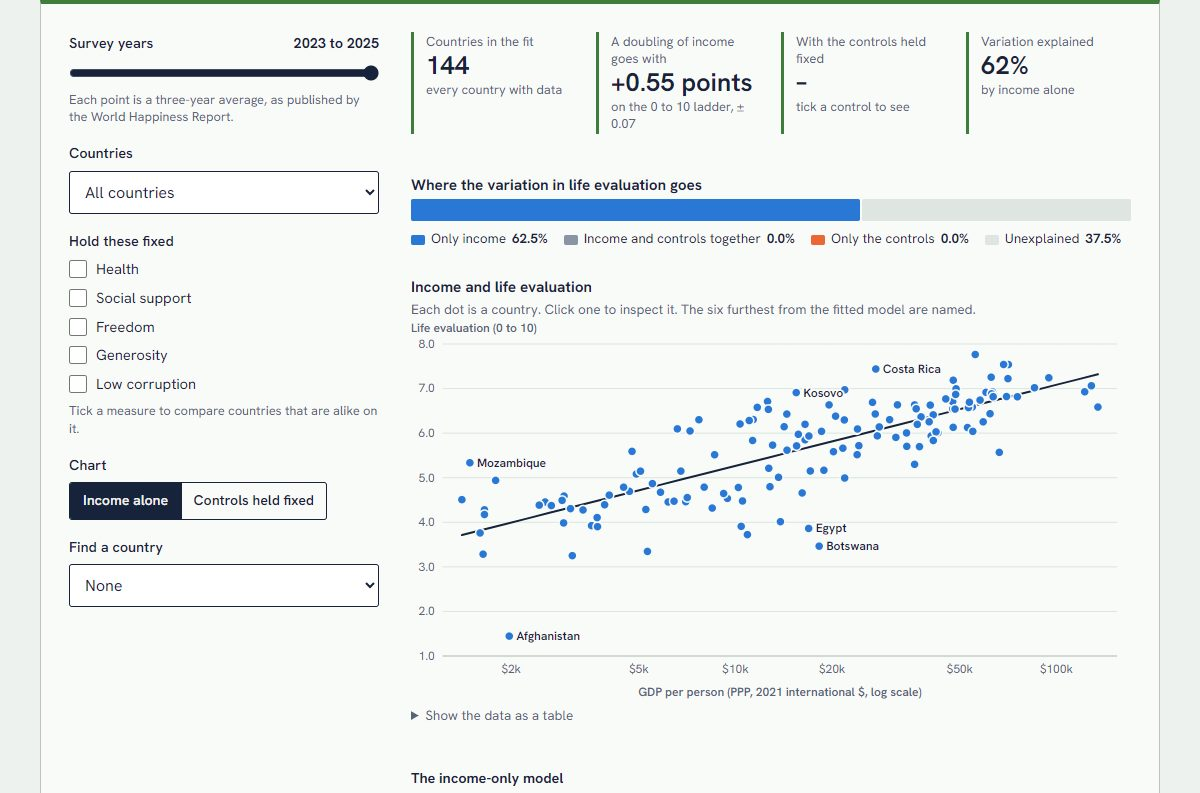
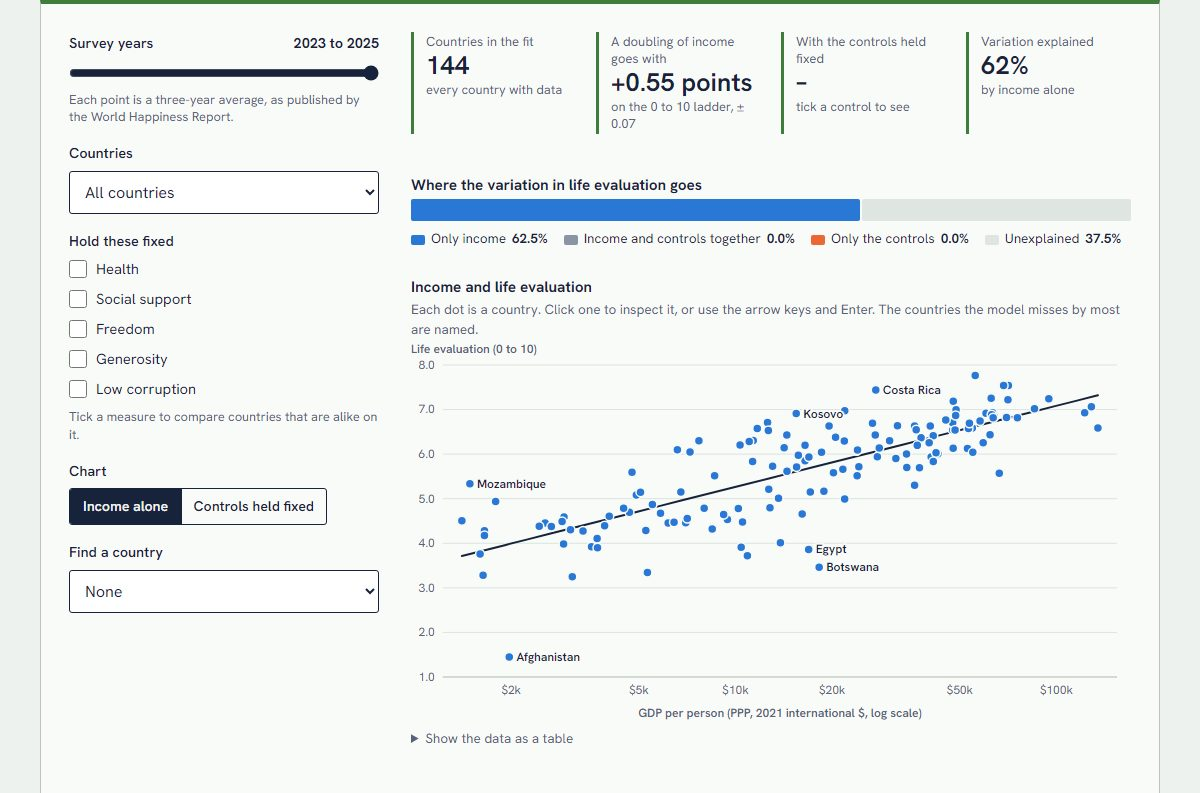
Review project 1: start at 2010-12, pin the finding, keyboard and focus fixes

diff --git a/365projects/1/index.html b/365projects/1/index.html
@@ -13,6 +13,7 @@
   <style>
     .split-bar { display: flex; gap: 2px; height: 22px; margin: 2px 0 8px; }
     .split-bar span { display: block; min-width: 2px; border-radius: 2px; }
+    .model-table td:last-child { min-width: 13em; }
   </style>
 </head>
 <body class="proj" data-day="1">
@@ -28,30 +29,31 @@
 
     <section class="p-sec finding">
       <h2>One finding</h2>
-      <p>Across 142 countries in 2023 to 2025, income alone accounts for 63% of the differences in average life evaluation, and each doubling of income goes with 0.55 more points on the 0 to 10 ladder. Hold health, social support, freedom, generosity and corruption fixed and the same doubling goes with 0.16 points. Less than one percentage point of the variation can be pinned on income and nothing else.</p>
+      <p>Tick all five controls and the tool compares the 142 countries that have every measure for 2023 to 2025. Across them, income alone accounts for 63% of the differences in average life evaluation, and each doubling of income goes with 0.55 more points on the 0 to 10 ladder. Hold health, social support, freedom, generosity and corruption fixed and the same doubling goes with 0.16 points. Less than one percentage point of the variation can be pinned on income and nothing else.</p>
     </section>
 
     <section class="p-sec">
       <h2>The idea</h2>
-      <p>Ask people in 140 countries to rate their lives from 0 to 10 and the national averages line up with national income almost embarrassingly well. Angus Deaton showed in 2008 that the line is straight when income is on a log scale: going from $2,000 to $4,000 a head goes with about the same gain as going from $20,000 to $40,000. Money matters, and each extra dollar matters less.</p>
-      <p>But rich countries are not only rich. They are also healthier, freer, less corrupt and better at looking after people who fall. So "income explains 63% of life satisfaction" could mean that money buys happiness, or that money travels with the things that do. This is the oldest problem in empirical social science, <strong>omitted variable bias</strong>, and it sits underneath a live argument in welfare economics: whether governments that want happier citizens should chase growth, or chase the things growth is correlated with.</p>
+      <p>Ask people in nearly 150 countries to rate their lives from 0 to 10 and the national averages line up with national income almost embarrassingly well. Richard Easterlin doubted in 1974 that richer societies were happier ones. Using the 2006 Gallup World Poll, Angus Deaton showed in 2008 that they are, across the whole range of incomes, once income is put on a log scale: each doubling goes with about the same gain, so going from $2,000 to $4,000 a head counts for as much as going from $20,000 to $40,000. Stevenson and Wolfers found the same in several other surveys, with no income above which the gains stop. Money matters, and each extra dollar matters less.</p>
+      <p>But rich countries are not only rich. They are also healthier, freer, less corrupt and better at looking after people who fall. So "income explains 63% of life satisfaction" could mean that money buys happiness, or that money travels with the things that do. This is one of the oldest problems in empirical social science, <strong>omitted variable bias</strong>, and it sits underneath a live argument in welfare economics: whether governments that want happier citizens should chase growth, or chase the things growth is correlated with.</p>
       <p>The tool lets you run that argument yourself. Tick a control and you are no longer comparing rich countries with poor ones. You are comparing countries that are alike on that measure and differ in income.</p>
     </section>
 
     <section class="p-sec">
       <h2>How it works</h2>
       <h3>The data</h3>
-      <p>Life evaluation is the Cantril ladder from the Gallup World Poll, as published in the World Happiness Report 2026: "imagine a ladder with steps from 0 to 10, where 10 is the best possible life for you; which step are you on?" Each value is a national average over three survey years. Income is the World Bank's GDP per person at purchasing power parity in constant 2021 international dollars, averaged over the same three years.</p>
+      <p>Life evaluation is the Cantril ladder from the Gallup World Poll, as published in the World Happiness Report 2026. People are asked to picture a ladder with steps numbered from 0 at the bottom to 10 at the top, where the top is the best possible life for them and the bottom the worst, and to say which step they stand on now. Each value is a national average over three survey years. Income is the World Bank's GDP per person at purchasing power parity in constant 2021 international dollars, averaged over whichever of the same three years the World Bank has published (for the latest period that is sometimes two of the three).</p>
+      <p>The slider runs from the 2010 to 2012 average to the 2023 to 2025 average. There is no 2011 to 2013 point because no report was published in 2014, and the 2012 report is left out because it pooled surveys from 2005 to 2011.</p>
       <h3>The model</h3>
       <p>For each country <var>i</var> the tool fits, by ordinary least squares,</p>
       <p class="eq"><var>ladder</var><sub><var>i</var></sub> = <var>a</var> + <var>b</var> · log<sub>2</sub>(<var>income</var><sub><var>i</var></sub>) + <var>c</var><sub>1</sub> · <var>control</var><sub>1<var>i</var></sub> + … + <var>e</var><sub><var>i</var></sub></p>
       <p>Because income enters as a base-2 logarithm, <var>b</var> reads directly as "ladder points per doubling of income". With no controls ticked, <var>b</var> is the slope of the line in the chart. With controls ticked, the tool fits both models on the same set of countries so the two slopes are comparable.</p>
       <h3>The controls</h3>
-      <p>Health is life expectancy at birth from the World Bank. The other four come from the report itself, which publishes each factor as a contribution to a country's score. A contribution is the survey average shifted and multiplied by a constant, so it carries the same information as the underlying average, but not in natural units. The table therefore reports every effect per standard deviation: the gap between a typical country and one that is noticeably higher.</p>
+      <p>Health is life expectancy at birth from the World Bank, averaged in the same way as income. The other four come from the report itself, which publishes each factor as a contribution to a country's score. A contribution is the survey average shifted and multiplied by a constant, so it carries the same information as the underlying average, but not in natural units. The table therefore reports every effect per standard deviation: the gap between a typical country and one that is noticeably higher.</p>
       <h3>Splitting the variation</h3>
       <p>The bar under the headline numbers comes from three regressions: income alone (<var>R</var>²<sub>I</sub>), the controls alone (<var>R</var>²<sub>C</sub>), and both together (<var>R</var>²<sub>F</sub>).</p>
       <p class="eq">only income = <var>R</var>²<sub>F</sub> − <var>R</var>²<sub>C</sub> &nbsp;&nbsp; shared = <var>R</var>²<sub>I</sub> + <var>R</var>²<sub>C</sub> − <var>R</var>²<sub>F</sub> &nbsp;&nbsp; only controls = <var>R</var>²<sub>F</sub> − <var>R</var>²<sub>I</sub></p>
-      <p>The shared part is the variation that income and the controls could each explain equally well. The data cannot say which of them deserves it, and that is usually most of the bar.</p>
+      <p>The shared part is the variation that income and the controls could each explain equally well. The data cannot say which of them deserves it, and that is usually most of the bar. Now and then the shared part comes out below zero: income and the controls explain more together than the two explain separately, because each was hiding part of the other's link with life evaluation. Generosity is the usual cause, since the report measures it after removing what income predicts. The tool says so when it happens.</p>
       <h3>The second chart</h3>
       <p>"Controls held fixed" is an added-variable plot. The tool regresses life evaluation on the controls and keeps what is left over, does the same for income, and plots one leftover against the other. By the Frisch-Waugh-Lovell theorem the slope of that cloud is exactly the coefficient <var>b</var> from the full model, so you can see how much of the tidy raw line survives.</p>
       <h3>Uncertainty</h3>
@@ -87,8 +89,8 @@
         <li>Helliwell, J. F., Layard, R., Sachs, J. D., De Neve, J.-E., Aknin, L. B., and Wang, S. (eds.) (2026). <em>World Happiness Report 2026</em>. University of Oxford: Wellbeing Research Centre. Data for Figure 2.1.</li>
         <li>World Bank, World Development Indicators: GDP per capita, PPP, constant 2021 international $ (NY.GDP.PCAP.PP.KD) and life expectancy at birth (SP.DYN.LE00.IN). CC BY 4.0. Retrieved 10 October 2026.</li>
         <li>Deaton, A. (2008). Income, health, and well-being around the world: evidence from the Gallup World Poll. <em>Journal of Economic Perspectives</em>, 22(2), 53-72.</li>
-        <li>Easterlin, R. A. (1974). Does economic growth improve the human lot? In <em>Nations and Households in Economic Growth</em>. Academic Press.</li>
-        <li>Stevenson, B., and Wolfers, J. (2008). Economic growth and subjective well-being: reassessing the Easterlin paradox. <em>Brookings Papers on Economic Activity</em>.</li>
+        <li>Easterlin, R. A. (1974). Does economic growth improve the human lot? Some empirical evidence. In P. A. David and M. W. Reder (eds.), <em>Nations and Households in Economic Growth</em>, 89-125. Academic Press.</li>
+        <li>Stevenson, B., and Wolfers, J. (2008). Economic growth and subjective well-being: reassessing the Easterlin paradox. <em>Brookings Papers on Economic Activity</em>, 2008(1), 1-87.</li>
         <li>Kahneman, D., and Deaton, A. (2010). High income improves evaluation of life but not emotional well-being. <em>PNAS</em>, 107(38), 16489-16493.</li>
       </ul>
     </section>

diff --git a/365projects/1/app.js b/365projects/1/app.js
@@ -5,8 +5,13 @@ import { CONTROLS, rowsFor, availableControls, fit, outliers } from "./logic.js"
 
 mount();
 
+// The report's first year, 2011, pooled surveys from 2005 to 2011. It is not a three-year average like the rest,
+// so the data module (scripts/data/wellbeing.py) leaves it out and the years start at 2012.
 const years = WELLBEING.years;
-const regions = [...new Set(WELLBEING.countries.map((c) => c.region))].sort();
+// A region is offered only if it has enough countries to fit a line in some year (North America has two).
+const MIN_COUNTRIES = 8;
+const regions = [...new Set(WELLBEING.countries.map((c) => c.region))].sort()
+  .filter((r) => years.some((y) => rowsFor(WELLBEING, y).filter((row) => row.region === r).length >= MIN_COUNTRIES));
 const shortRegion = (r) => r.replace("Middle East, North Africa, Afghanistan & Pakistan", "Middle East, N. Africa, Afghanistan & Pakistan");
 const money = (v) => (v >= 1000 ? `$${fmt.sig(v / 1000, 3)}k` : `$${fmt.int(v)}`);
 
@@ -36,7 +41,7 @@ const excludedBox = el("div", { class: "field" });
 
 const controls = el("div", { class: "controls" },
   yearSlider.el, regionSelect.el,
-  el("div", { class: "field" }, el("div", { class: "lab" }, el("span", { text: "Hold these fixed" })), boxes.map((b) => b.box.el), controlHint),
+  el("div", { class: "field", role: "group", "aria-label": "Hold these fixed" }, el("div", { class: "lab" }, el("span", { text: "Hold these fixed" })), boxes.map((b) => b.box.el), controlHint),
   viewSeg.el, pick.el, excludedBox);
 
 /* ---------- outputs ---------- */
@@ -45,15 +50,20 @@ const sAlone = stat("A doubling of income goes with");
 const sWith = stat("With the controls held fixed");
 const sR2 = stat("Variation explained");
 const message = el("div");
+// The headline numbers in one sentence, for screen readers: the stat tiles change silently.
+const status = el("p", { class: "sr-only", role: "status" });
 const splitBox = el("div", { class: "split" });
 const chartBox = el("div");
 const card = el("div");
-const tableBox = el("div");
-const out = el("div", { class: "out" }, el("div", { class: "stats" }, sN.el, sAlone.el, sWith.el, sR2.el), message, splitBox, chartBox, card, tableBox);
+const tableBox = el("div", { class: "model-table" });
+const out = el("div", { class: "out" }, el("div", { class: "stats" }, sN.el, sAlone.el, sWith.el, sR2.el), status, message, splitBox, chartBox, card, tableBox);
 
 $("#app").append(el("div", { class: "tool-grid" }, controls, out));
 
 const plot = chart(chartBox, { series: [], height: 380 });
+const toggleCountry = (name) => { state.selected = state.selected === name ? "" : name; update(); };
+// From the keyboard: arrow keys to a dot, then Enter or Space, which the kit's chart passes to onClick like a click.
+let names = [];
 
 /* ---------- rendering ---------- */
 function drawSplit(split) {
@@ -64,11 +74,16 @@ function drawSplit(split) {
     { key: "unexplained", label: "Unexplained", color: "#dfe5e1" },
   ].map((p) => ({ ...p, value: Math.max(0, split[p.key]) }));
   const total = stats.sum(parts.map((p) => p.value)) || 1;
+  // The shared part can be negative: the bar cannot draw that, so say so.
+  const negative = split.shared < -0.0005
+    ? [el("p", { class: "small muted", text: "The shared part is below zero here: income and these controls explain more together than the two explain separately, because each hides part of the other's link with life evaluation. The bar leaves the shared part out, so the two \"only\" parts add up to slightly more than the model explains." })]
+    : [];
   splitBox.replaceChildren(
     el("p", { class: "chart-title", text: "Where the variation in life evaluation goes" }),
-    el("div", { class: "split-bar", role: "img", "aria-label": parts.map((p) => `${p.label}: ${fmt.pct(p.value, 1)}`).join(", ") },
-      parts.filter((p) => p.value > 0).map((p) => el("span", { style: { width: `${(p.value / total) * 100}%`, background: p.color }, title: `${p.label}: ${fmt.pct(p.value, 1)}` }))),
-    el("div", { class: "chart-legend" }, parts.map((p) => el("span", {}, el("i", { style: { background: p.color } }), `${p.label} `, el("strong", { text: fmt.pct(split[p.key], 1) })))));
+    el("div", { class: "split-bar", role: "img", "aria-label": parts.map((p) => `${p.label}: ${fmt.pct(split[p.key], 1)}`).join(", ") },
+      parts.filter((p) => p.value > 0).map((p) => el("span", { style: { width: `${(p.value / total) * 100}%`, background: p.color }, title: `${p.label}: ${fmt.pct(split[p.key], 1)}` }))),
+    el("div", { class: "chart-legend" }, parts.map((p) => el("span", {}, el("i", { style: { background: p.color } }), `${p.label} `, el("strong", { text: fmt.pct(split[p.key], 1) })))),
+    ...negative);
 }
 
 function update() {
@@ -90,7 +105,7 @@ function update() {
     : "Tick a measure to compare countries that are alike on it.";
 
   // Country picker follows the current sample.
-  const names = inRegion.map((r) => r.name).sort((a, b) => a.localeCompare(b));
+  names = rows.map((r) => r.name).sort((a, b) => a.localeCompare(b));
   if (state.selected && !names.includes(state.selected)) state.selected = "";
   pick.input.replaceChildren(el("option", { value: "", text: "None" }), ...names.map((n) => el("option", { value: n, text: n })));
   pick.value = state.selected;
@@ -98,14 +113,15 @@ function update() {
   excludedBox.replaceChildren(...(state.excluded.size
     ? [el("div", { class: "lab" }, el("span", { text: `Left out of the fit (${state.excluded.size})` })),
        el("div", { class: "hint", text: [...state.excluded].sort().join(", ") }),
-       button("Put them back", () => { state.excluded.clear(); update(); }, { small: true })]
+       button("Put them back", () => { state.excluded.clear(); update(); pick.input.focus(); }, { small: true })]
     : []));
 
   const keys = [...state.controls];
   const f = fit(rows, keys);
   if (f.error) {
     message.replaceChildren(note("warn", f.error));
-    sN.set(fmt.int(f.n), "");
+    status.textContent = f.error;
+    sN.set(fmt.int(f.n), "too few to fit");
     for (const s of [sAlone, sWith, sR2]) s.set("–", "");
     splitBox.replaceChildren();
     tableBox.replaceChildren();
@@ -126,6 +142,9 @@ function update() {
     sWith.set("–", "tick a control to see");
     sR2.set(fmt.pct(f.alone.r2, 0), "by income alone");
   }
+  status.textContent = `${fmt.int(f.n)} countries in the fit. A doubling of income goes with ${fmt.signed(f.alone.perDoubling, 2)} points on the ladder`
+    + (keys.length ? `, and with ${fmt.signed(f.withControls.perDoubling, 2)} points once the ticked controls are held fixed. The model explains ${fmt.pct(f.withControls.r2, 0)} of the variation; income alone explains ${fmt.pct(f.alone.r2, 0)}.`
+      : `. Income alone explains ${fmt.pct(f.alone.r2, 0)} of the variation.`);
   drawSplit(f.split);
 
   const residualOf = new Map(f.residuals.map((r) => [r.name, r]));
@@ -158,7 +177,7 @@ function update() {
     title: partial ? "Income and life evaluation, after removing what the controls explain" : "Income and life evaluation",
     subtitle: partial
       ? (keys.length ? "Each axis shows how far a country is from what its controls predict. The slope is income's own contribution." : "No controls are ticked, so this is the raw relationship centred on the average country.")
-      : "Each dot is a country. Click one to inspect it. The six furthest from the fitted model are named.",
+      : "Each dot is a country. Click one to inspect it, or use the arrow keys and Enter. The countries the model misses by most are named.",
     label: "Scatter plot of life evaluation against income per person",
     hover: "point",
     x: partial
@@ -173,7 +192,8 @@ function update() {
     ],
     legend: false,
     marks,
-    onClick: ({ point }) => { if (point) { state.selected = state.selected === point.label ? "" : point.label; update(); } },
+    // Points on the fitted line can be the nearest thing to a click too; they have no label.
+    onClick: ({ point }) => { if (point?.label) toggleCountry(point.label); },
   });
 
   // Selected country.
@@ -184,7 +204,7 @@ function update() {
     card.replaceChildren(el("div", { class: "panel" },
       el("div", { class: "row", style: { justifyContent: "space-between" } },
         el("h3", { text: `${sel.name}, ${state.year - 2} to ${state.year}` }),
-        button("Leave out of the fit", () => { state.excluded.add(sel.name); state.selected = ""; update(); }, { small: true })),
+        button("Leave out of the fit", () => { state.excluded.add(sel.name); state.selected = ""; update(); $("button", excludedBox)?.focus(); }, { small: true })),
       el("p", { class: "small", style: { marginTop: "8px" } },
         `Life evaluation ${fmt.num(sel.ladder, 2)}, income ${money(sel.gdp)} per person. The ${keys.length ? "model with controls" : "income-only line"} predicts ${fmt.num(res.predicted, 2)}, so ${sel.name} sits ${fmt.num(Math.abs(res.residual), 2)} points ${res.residual >= 0 ? "above" : "below"} it: number ${rank} of ${f.n} when countries are ordered from most above to most below.`)));
   } else if (state.selected) {

diff --git a/365projects/1/logic.js b/365projects/1/logic.js
@@ -39,7 +39,16 @@ export function fit(rows, controlKeys = []) {
   const keys = CONTROLS.map((k) => k.key).filter((k) => controlKeys.includes(k));
   const sample = rows.filter((r) => keys.every((k) => r[k] != null));
   const n = sample.length;
-  if (n < keys.length + 8) return { error: `Only ${n} countries have all of these measures. Choose fewer controls, another year or a wider region.`, n };
+  if (n < keys.length + 8) {
+    const have = `Only ${n} ${n === 1 ? "country has" : "countries have"}`;
+    const need = `at least ${keys.length + 8} are needed`;
+    return {
+      n,
+      error: keys.length
+        ? `${have} all of these measures, and ${need} to fit this many controls. Choose fewer controls, another year or a wider region.`
+        : `${have} a life evaluation and an income here, and ${need} to fit a line. Choose a wider region or put back the countries left out.`,
+    };
+  }
 
   const x = sample.map((r) => r.doublings);
   const y = sample.map((r) => r.ladder);
